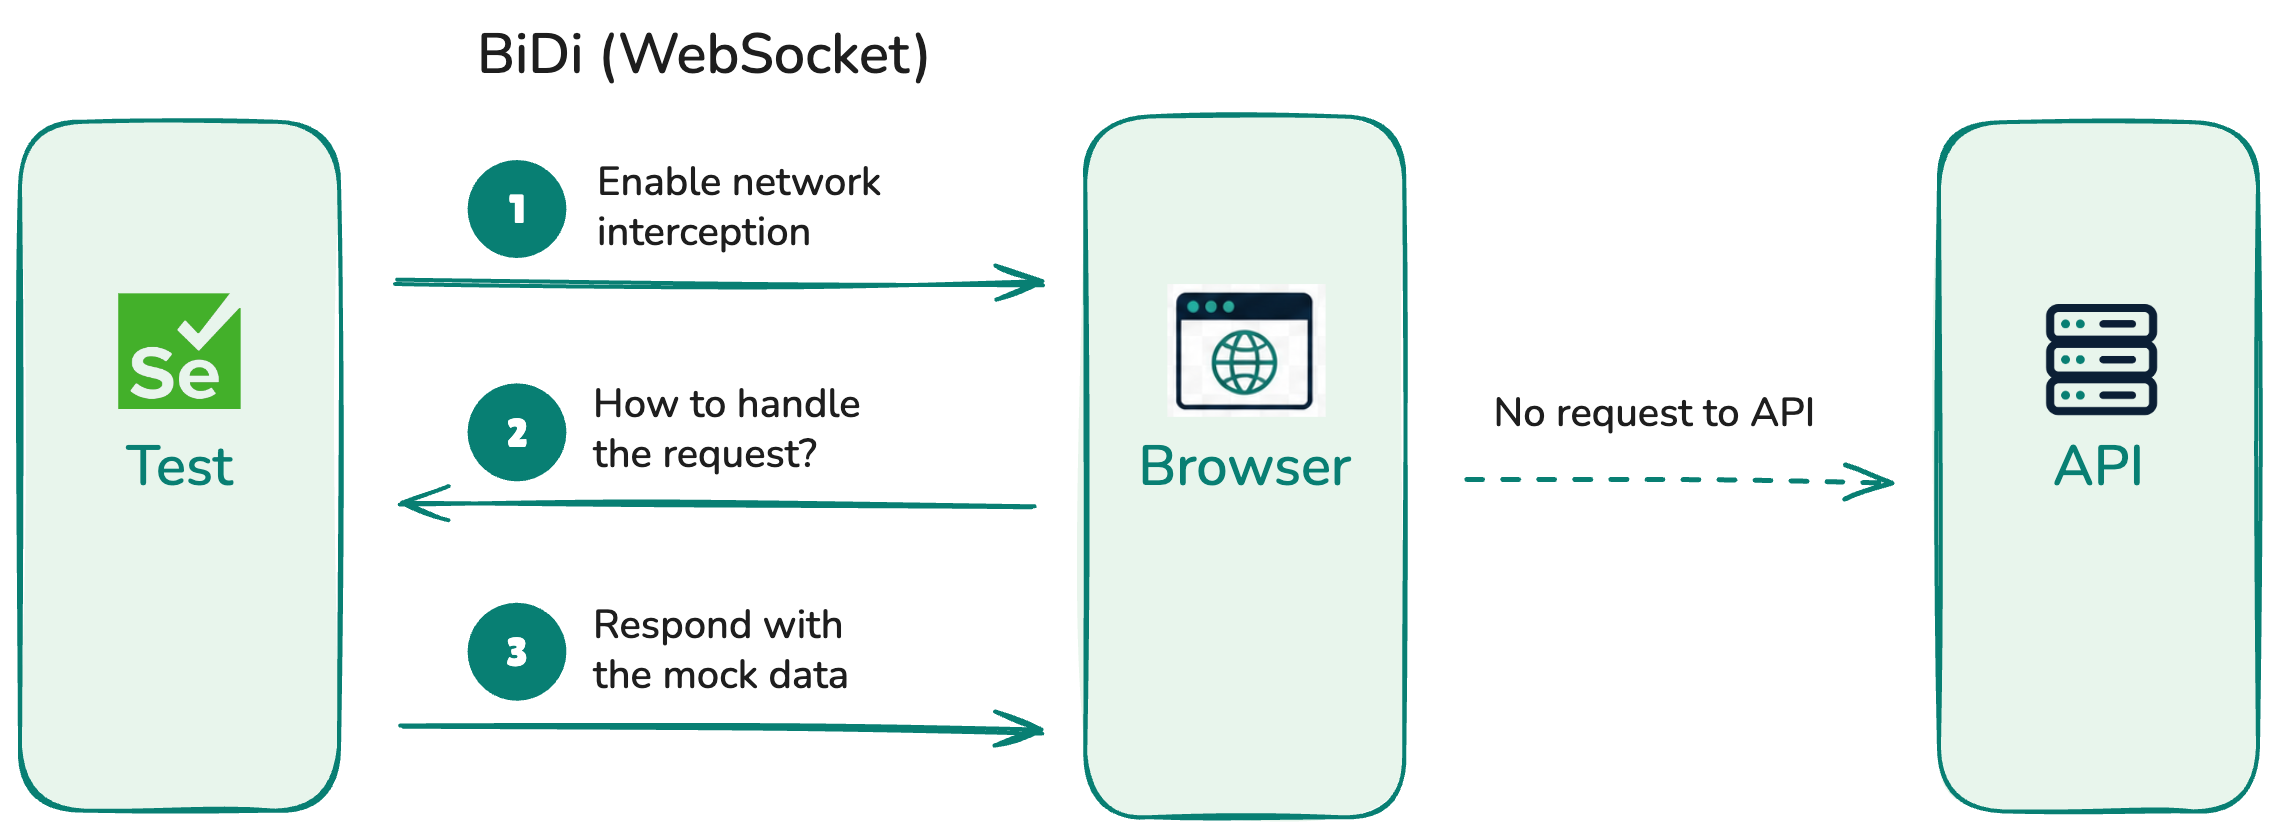
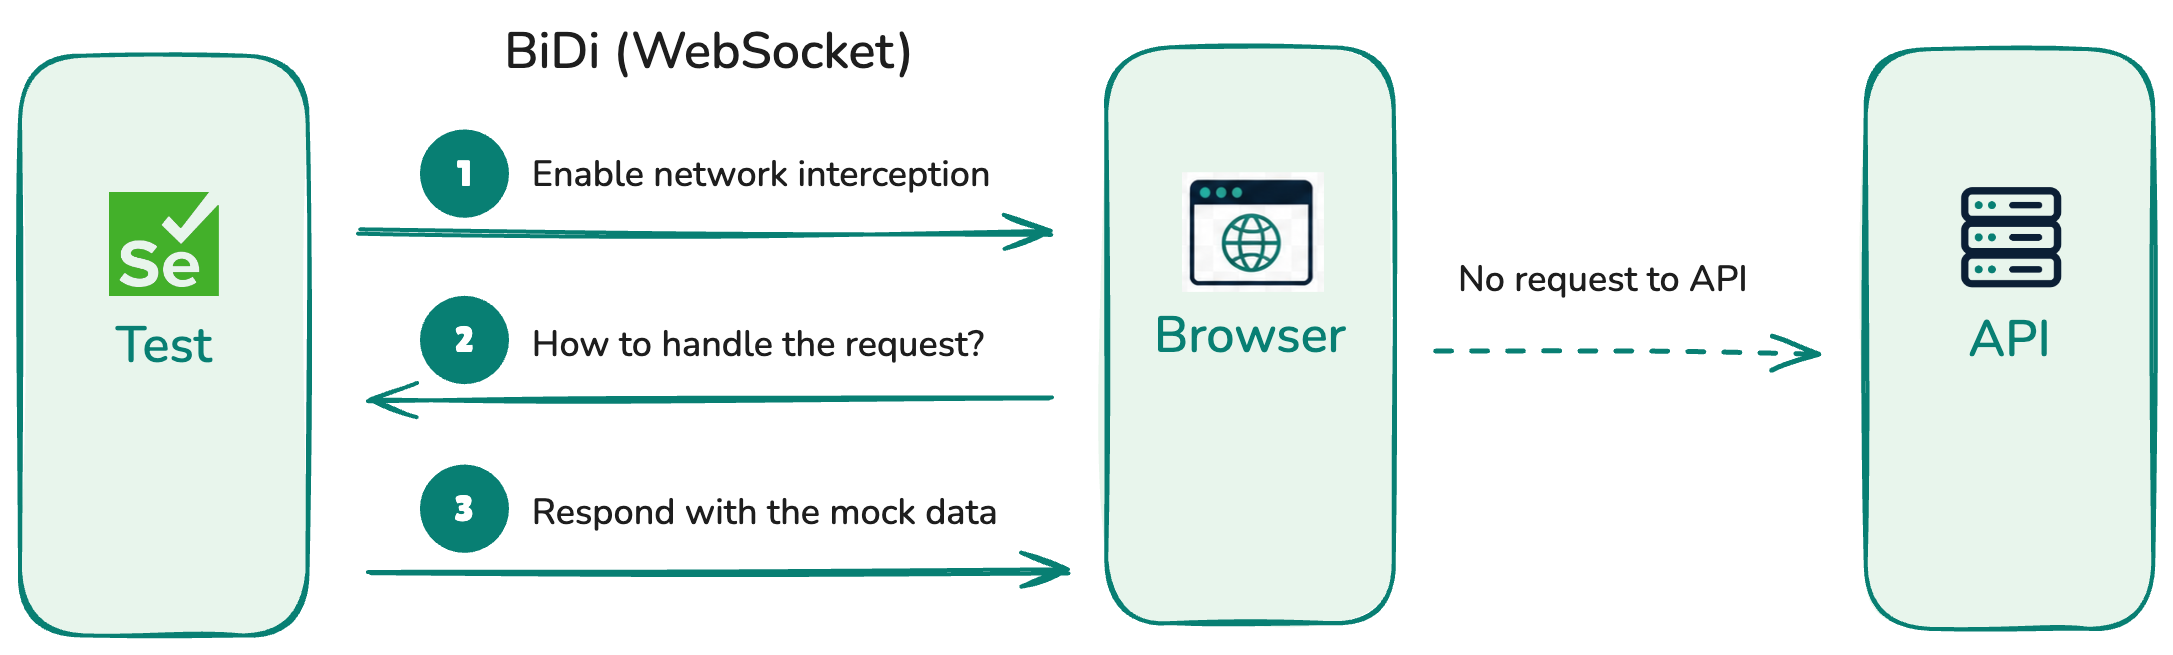
wip

diff --git a/pages/recap.md b/pages/recap.md
@@ -4,17 +4,23 @@
 
 <v-clicks>
 
-- **Request mocking unlocks better testing**  
-  Make tests deterministic and cover all scenarios.
+- **Request mocking improves testing experience**  
+  Make your tests deterministic and cover all scenarios.
 - **Selenium BiDi controls browser requests**  
-  The test can intercept, continue, fail, or fulfill requests.
-- **Server-side mocks need browser + server cooperation**  
+  The test can intercept, continue, fail, or fulfill client-side requests.
+- **Server-side mocking needs browser + server cooperation**  
   Use BiDi interception, custom header and app instrumentation to mock requests on server.
 
 </v-clicks>
 
 <div v-click>
 
-> ❗ **Don't forget to sync your mocks with real API responses.**
+> ❗ **Keep your mocks in sync with real API responses.**
 
 </div>
+
+<style>
+li {
+  font-size: 1.2rem;
+}
+</style>

diff --git a/slides.md b/slides.md
@@ -42,7 +42,7 @@ src: ./pages/test-cases.md
 ---
 
 ---
-src: ./pages/no-mocking-1.md
+src: ./pages/no-mocking-start.md
 ---
 
 ---
@@ -51,10 +51,6 @@ src: ./pages/no-mocking-result.md
 
 ---
 src: ./pages/client-side-mocking-schema.md
----
-
----
-src: ./pages/client-side-mocking-code.md
 ---
 
 ---
@@ -74,19 +70,15 @@ src: ./pages/server-side-rmp.md
 ---
 
 ---
-src: ./pages/server-side-code.md
----
-
----
 src: ./pages/server-side-instrumentation.md
 ---
 
 ---
-src: ./pages/server-side-two-layers.md
+src: ./pages/server-side-limitations.md
 ---
 
 ---
-src: ./pages/limitations.md
+src: ./pages/server-side-result.md
 ---
 
 ---

diff --git a/pages/server-side-rmp.md b/pages/server-side-rmp.md
@@ -1,6 +1,6 @@
 ###### Alternative
 
-# Mock data in HTTP Header
+# Header-based mocking
 
 <div v-click>
 
@@ -14,9 +14,15 @@ x-mock-request: [{"url":"/users","status":200,"body":[{"id":1,"name":"User 1"},.
 
 <div v-click>
 
-> ✅ No external mock server. Each test carries its own mock data. Highly scalable.
+<a class="demo-link" href="vscode://file/Users/vitalets/projects/selenium-nodejs-request-mocks/test/server-mocks.test.js:25" @mousedown.prevent>▶ Check the test</a>
 
 </div>
+
+<!-- <div v-click>
+
+> ✅ No external mock server. Each test carries its own mock data. Highly scalable.
+
+</div> -->
 
 
 

diff --git a/pages/client-side-mocking-result.md b/pages/client-side-mocking-result.md
@@ -1,6 +1,6 @@
-###### RESULT
+###### Client-side mocks
 
-# All client-side scenarios are now testable
+# All scenarios are covered
 
 | Scenario | Mock |
 | --- | --- |
@@ -8,5 +8,5 @@
 | **Empty list** | ✅ Return `[]` and assert the empty state message |
 | **API error** | ✅ Return status `500` and assert error details |
 
-> For client-side fetches, BiDi gives the test direct control over browser network requests.
+> 👍 For client-side fetches, BiDi gives the test direct control over browser network requests.
 

diff --git a/pages/server-side-result.md b/pages/server-side-result.md
@@ -1,0 +1,22 @@
+###### Header-based mocks
+
+# Results
+
+<v-clicks>
+
+- ✅ All scenarios covered.
+- ✅ No external mock server.
+- ✅ Each test carries its own mock data.
+- ✅ Highly scalable.
+
+</v-clicks>
+
+<div v-click>
+
+> Implementation for JavaScript: <img src="/github.svg" style="display:inline;width:1em;height:1em;vertical-align:middle;margin-left:0.2em;margin-right:0.2em">[vitalets/request-mocking-protocol](https://github.com/vitalets/request-mocking-protocol)
+
+</div>
+
+
+
+

diff --git a/pages/server-side-limitations.md b/pages/server-side-limitations.md
@@ -1,0 +1,18 @@
+###### Header-based mocks
+
+# Limitations
+
+<v-click>
+
+| Limitation | Meaning |
+| --- | --- |
+| **Declarative mocks** | Mock definitions must be serializable to be transfered in headers. |
+| **Header size** | Request header size is typically limited to ~4–8 KB. |
+
+</v-click>
+
+<v-click>
+
+> 👉 In practice, this is usually acceptable. Mocks should focus on the **minimal state** the test actually needs.
+
+</v-click>

diff --git a/pages/server-side-rendering.md b/pages/server-side-rendering.md
@@ -14,8 +14,7 @@
 
 > 🤔 **How to mock?**
 
+  <a class="demo-link" href="http://localhost:3000/ssr" target="_blank" rel="noreferrer" tabindex="-1" @mousedown.prevent>http://localhost:3000/ssr</a>
+
 </v-click>
 
-<!-- <div v-click class="demo-link-wrap" style="margin-top: 2rem;">
-  <a class="demo-link" href="http://localhost:3000/ssr" target="_blank" rel="noreferrer" tabindex="-1" @mousedown.prevent>http://localhost:3000/ssr</a>
-</div> -->

diff --git a/pages/no-mocking-start.md b/pages/no-mocking-start.md
@@ -1,0 +1,16 @@
+###### No mocks
+
+# First attempt: no mocking
+
+<v-clicks>
+
+- Load the app.
+- Assert there are users in the list.
+
+</v-clicks>
+
+<div v-click>
+
+<a class="demo-link" href="vscode://file/Users/vitalets/projects/selenium-nodejs-request-mocks/test/no-mocks.test.js:8" @mousedown.prevent>▶ Check the test</a>
+
+</div>

diff --git a/pages/server-side-instrumentation.md b/pages/server-side-instrumentation.md
@@ -1,8 +1,8 @@
-###### Server-side mocks
+###### Header-based mocks
 
 # App Instrumentation
 
-Intercept all outgoing `fetch()` requests on server and apply mocks from headers.
+Intercept `fetch()` requests on server and apply mocks from headers.
 
 ```js
 // instrumentation.js

diff --git a/pages/client-side-mocking-schema.md b/pages/client-side-mocking-schema.md
@@ -12,3 +12,8 @@ class: client-side-mocking-slide
 
 </div>
 
+<div v-click>
+
+<a class="demo-link" href="vscode://file/Users/vitalets/projects/selenium-nodejs-request-mocks/test/client-mocks.test.js:25" @mousedown.prevent>▶ Check the test</a>
+
+</div>

diff --git a/pages/no-mocking-result.md b/pages/no-mocking-result.md
@@ -1,4 +1,4 @@
-###### Result
+###### No mocks
 
 # Flakiness and limited coverage
 
